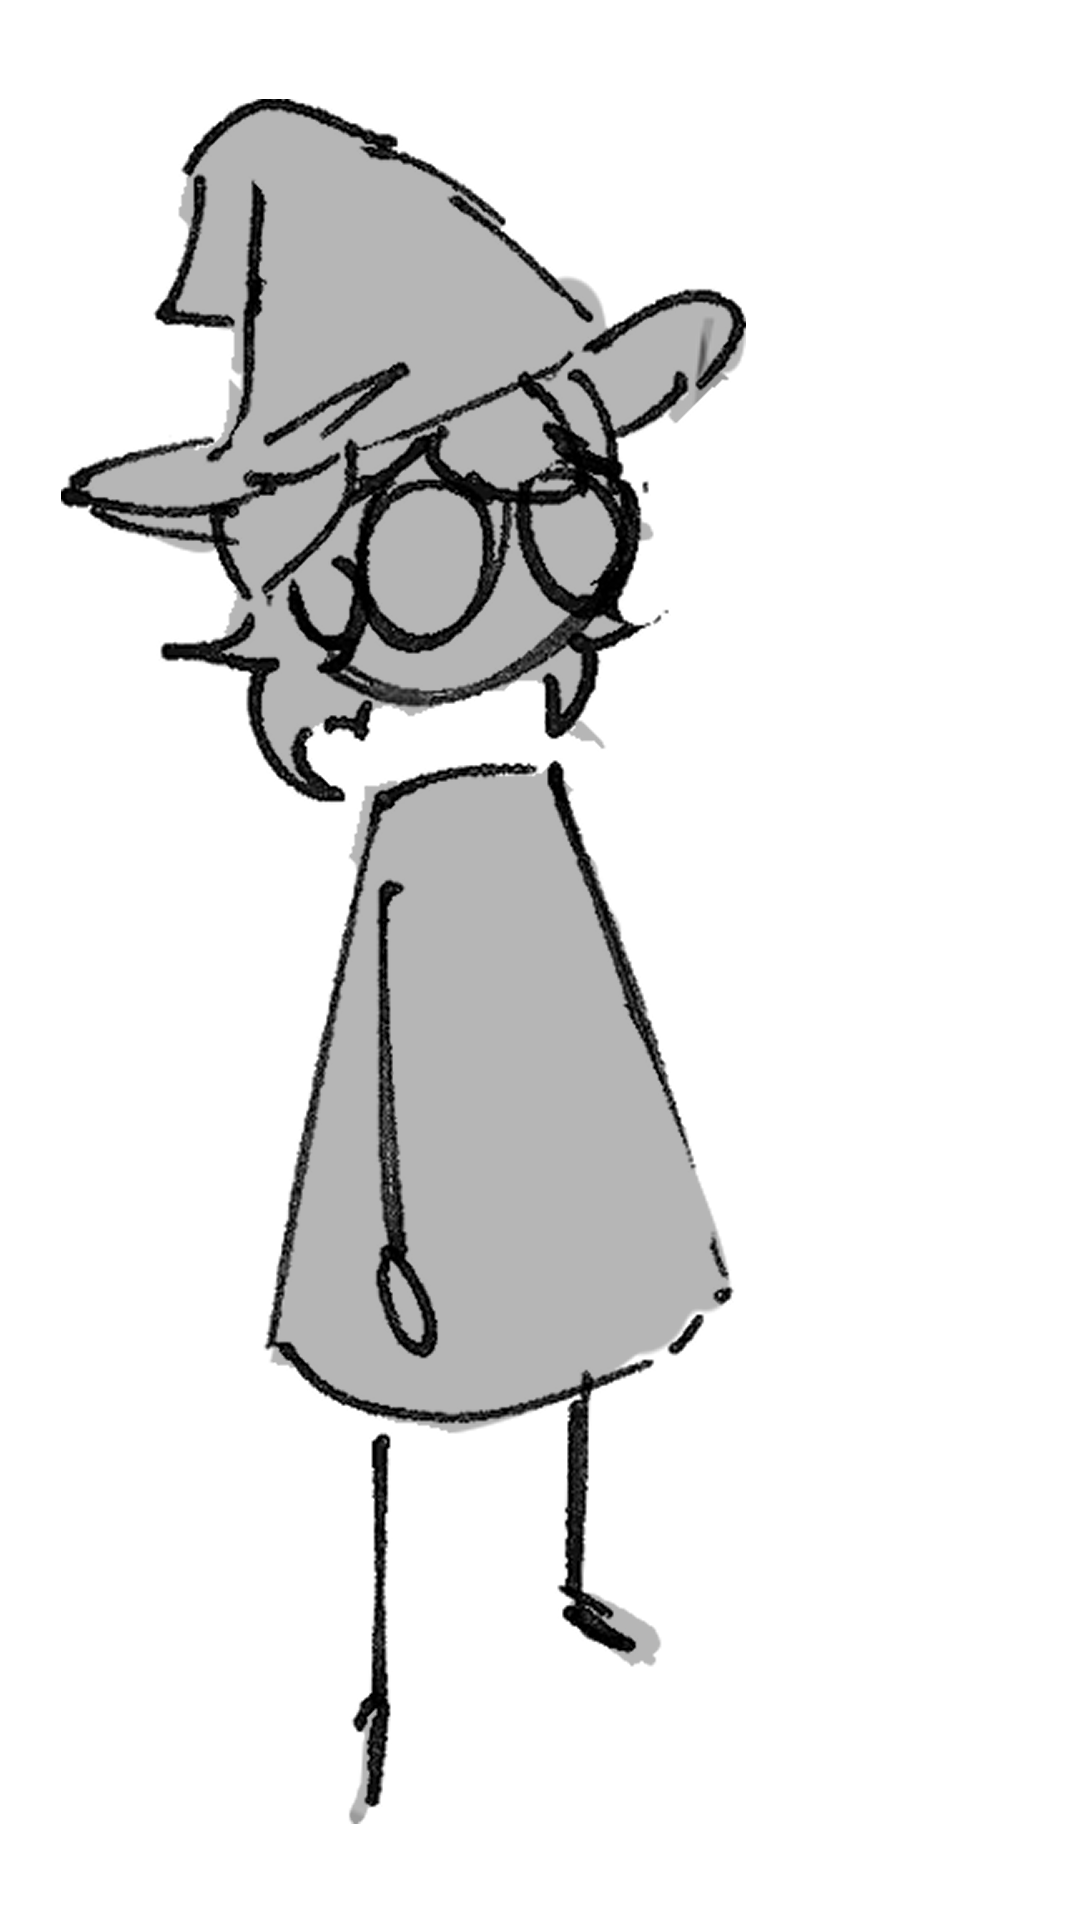
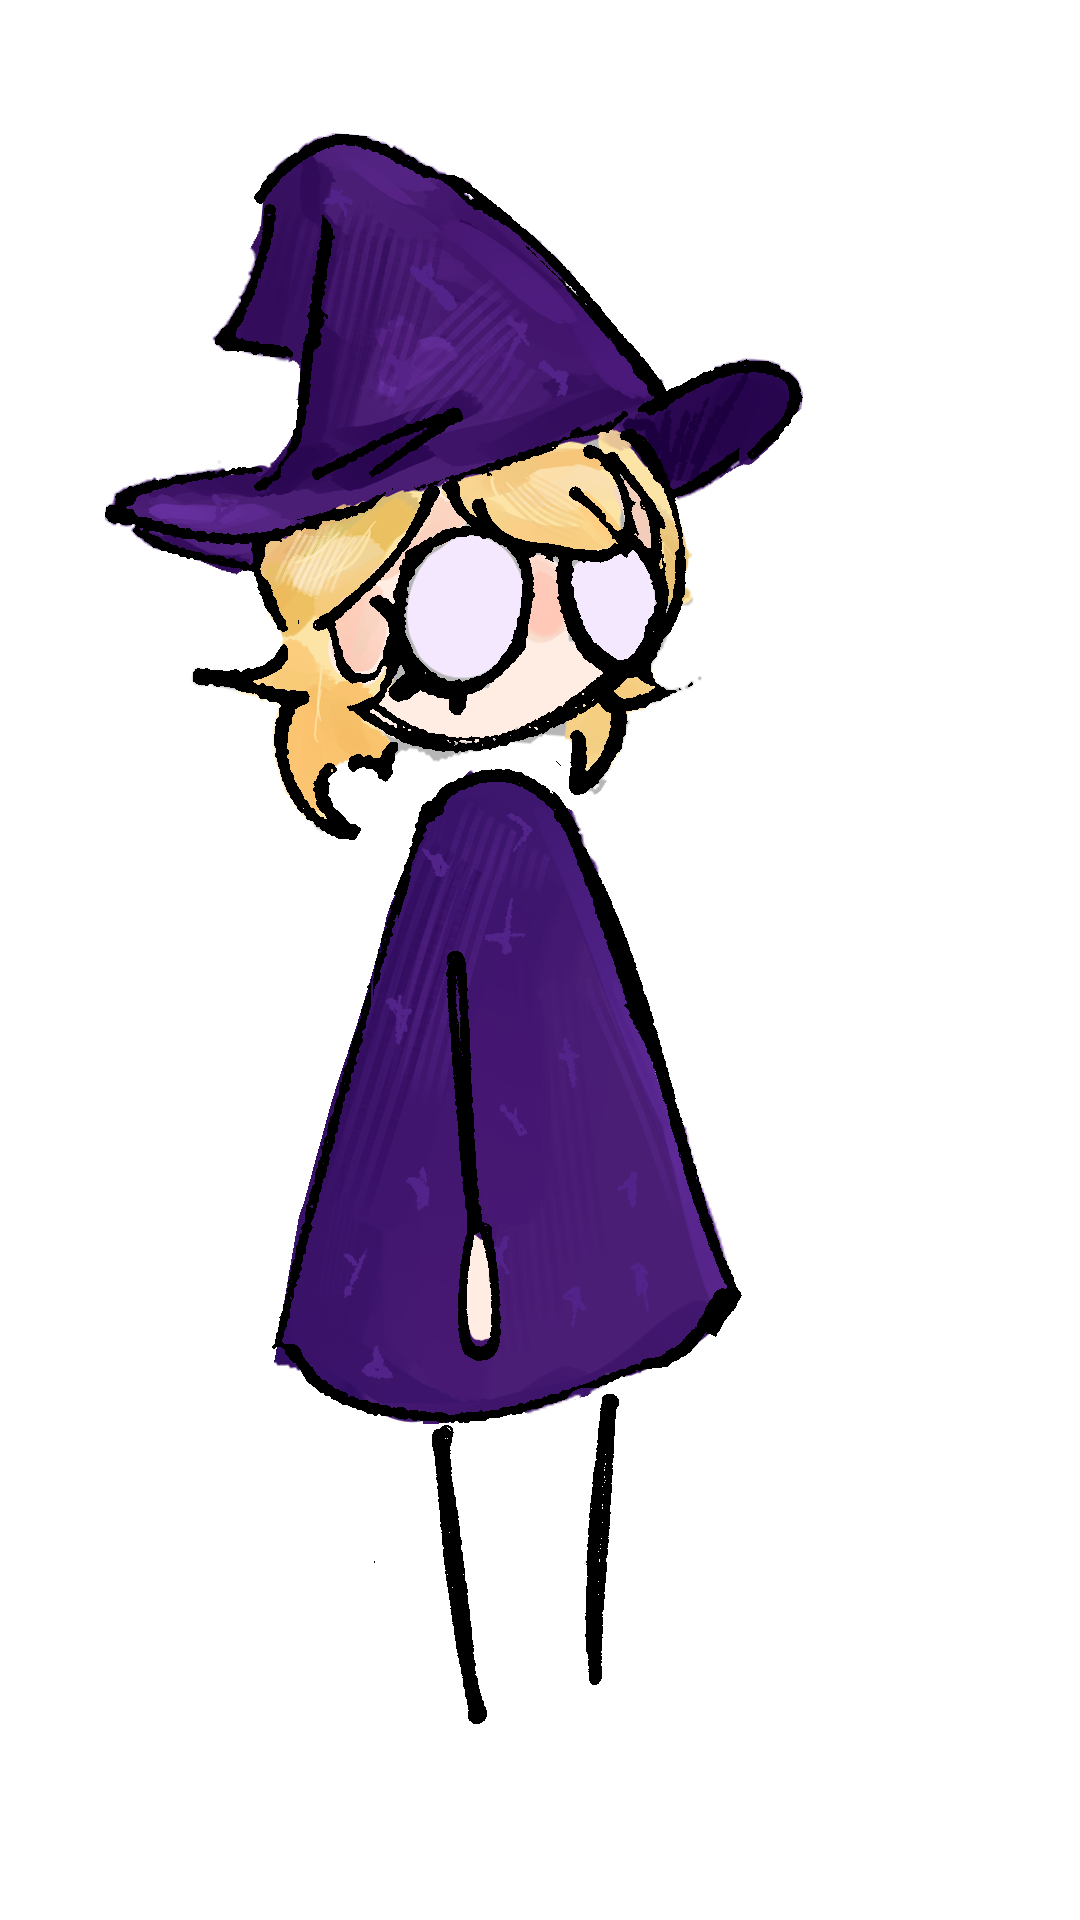
nova tela de estatisticas

Changed region(s): [[0.0611, 0.0312, 0.7639, 0.9375], [0.3056, 0.9375, 0.3361, 0.9688]]

diff --git a/script.js b/script.js
@@ -407,13 +407,21 @@ function escolher(indiceDialogo, indiceOpcao) {
 function mostrarEstatisticas() {
   const respostas = document.getElementById("respostas");
   const realizadas = partida ? partida.escolhas : [];
-  document.getElementById("quantidade").textContent = "Escolhas realizadas: " + realizadas.length;
+  const total = document.createElement("strong");
+  total.textContent = realizadas.length;
+  const descricao = realizadas.length === 1 ? "escolha realizada" : "escolhas realizadas";
+  document.getElementById("quantidade").replaceChildren(total, " " + descricao);
   respostas.replaceChildren();
+  respostas.hidden = realizadas.length === 0;
 
   realizadas.forEach((resposta) => {
     const item = document.createElement("li");
     const dialogo = dialogos[resposta.dialogo];
-    item.textContent = dialogo.titulo + ": " + dialogo.opcoes[resposta.opcao];
+    const titulo = document.createElement("strong");
+    titulo.textContent = dialogo.titulo;
+    const escolha = document.createElement("p");
+    escolha.textContent = dialogo.opcoes[resposta.opcao];
+    item.append(titulo, escolha);
     respostas.append(item);
   });
   mostrarTela("estatisticas");

diff --git a/style.css b/style.css
@@ -196,8 +196,43 @@ h1 {
   margin-top: 24px;
 }
 
-#respostas {
+#estatisticas {
+  justify-content: flex-start;
   text-align: left;
+}
+
+#quantidade {
+  display: flex;
+  align-items: center;
+  gap: 16px;
+  padding: 16px;
+  border-radius: 6px;
+  background: var(--lilas-bem-clarinho);
+  color: var(--cinza-roxo);
+}
+
+#quantidade strong {
+  font-size: 36px;
+  line-height: 1;
+}
+
+#respostas {
+  margin: 0;
+  padding-left: 24px;
+}
+
+#respostas li {
+  padding: 12px 0;
+  border-bottom: 1px solid var(--lilas-bem-clarinho);
+}
+
+#respostas p {
+  margin-top: 4px;
+  color: var(--texto-secundario);
+}
+
+#voltar {
+  margin-top: auto;
 }
 
 [hidden] {

diff --git a/index.html b/index.html
@@ -52,7 +52,10 @@
     </main>
 
     <main class="jogo" id="estatisticas" hidden>
-      <h2>Estatísticas</h2>
+      <header>
+        <p class="subtitulo">Resumo da partida</p>
+        <h2>Estatísticas</h2>
+      </header>
       <p id="quantidade"></p>
       <ol id="respostas"></ol>
       <button class="botao-iniciar" id="voltar" type="button">
